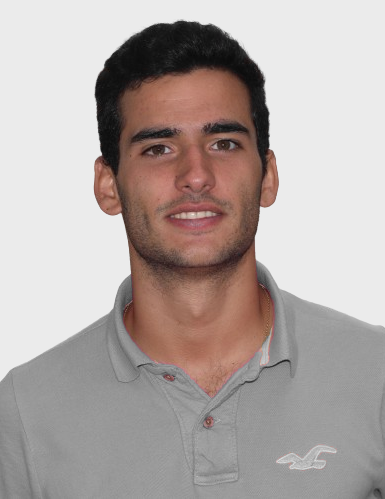
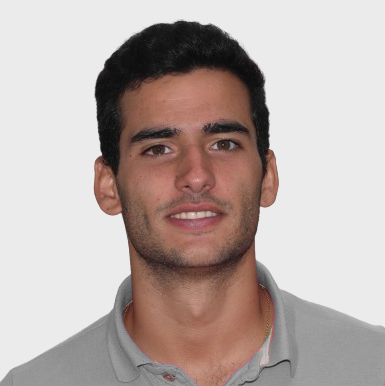
Profile picture and abstracts

diff --git a/index.html b/index.html
@@ -3,6 +3,7 @@
 <head>
     <meta charset="UTF-8">
     <meta name="viewport" content="width=device-width, initial-scale=1.0">
+    <script src="https://cdn.jsdelivr.net/npm/mathjax@3/es5/tex-mml-chtml.js"></script>
     <link rel="stylesheet"
     href="https://cdnjs.cloudflare.com/ajax/libs/font-awesome/6.5.1/css/all.min.css"
     integrity="sha512-DTOQO9RWCH3ppGqcWaEA1BIZOC6xxalwEsw9c2QQeAIftl+Vegovlnee1c9QX4TctnWMn13TZye+giMm8e2LwA=="
@@ -21,9 +22,9 @@
     
     <header>
         <nav class="navbar">
-            <!-- <div class="logo"><img src="imgs/ICM.png""></div> -->
-            <div class="name"><a onclick="showSection(1)">Lucas Rincon de la Rosa</a></div>
-
+            <div class="name"><a onclick="showSection(1)"><img src="imgs/foto-crop.png" alt="Lucas Rincon de la Rosa">Lucas Rincon de la Rosa</a></div>
+            <!-- <div class="img-home"><img src="imgs/foto-crop.png" alt="Lucas Rincon de la Rosa"></div>
+            <div class="name"><a onclick="showSection(1)">Lucas Rincon de la Rosa</a></div> -->
             <ul class="links">
                 <li><a onclick="showSection(2)">About me</a></li>
                 <li><a onclick="showSection(3)">Education</a></li>
@@ -72,7 +73,7 @@
     <div id="Page1">
 
         <div class="img-container">
-            <img src="imgs/foto-crop.png">
+            <!-- <img src="imgs/foto-crop.png"> -->
         </div>
 
         <hr>
@@ -103,7 +104,12 @@
                     <a class="pdf" target="_blank" href="pdfs/Lucas Rincon de la Rosa - Oligodendroglioma Poster.pdf">[Pdf]</a>
                 </font>
                 <br>
-                Abstract:
+                Abstract: Diffusely infiltrating gliomas in adults are currently classified into WHO grades 
+                I–IV, reflecting varying malignancy levels. Recent advances have led to a refined classification 
+                of diffusely infiltrating gliomas in adults into three groups: IDH-mutant, 1p/19q codeleted tumors 
+                (best prognosis), IDH-mutant, 1p/19q non-codeleted tumors (intermediate prognosis), and IDH 
+                wild-type tumors (poor prognosis). This study aims to use a deep learning (DL) image classification 
+                model on histopathology images from various cohorts to predict glioma grade, IDH status, and 1p/19q codeletion.
 
                 <br><br>
 
@@ -112,7 +118,15 @@
                     <a class="pdf" target="_blank" href="pdfs/Lucas Rincon de la Rosa - CSBC7th Poster.pdf">[Pdf]</a>
                 </font>
                 <br>
-                Abstract:
+                Abstract: In this study we introduce a novel deep learning model for denoising spatial transcriptomics 
+                RNA sequencing data, leveraging the power of optimal transport and graph attention mechanisms. 
+                We called our model Graph Attention with Optimal Transport, Transformers and Time diffusion (GO3T) 
+                which combines the mathematical accuracy of optimal transport to compute distance similarities with 
+                the dynamic learning capabilities of graph attention networks. This integration effectively mitigates 
+                noise and preserves spatial gene expression patterns. To validate our model's performance, 
+                we conducted a comprehensive benchmark against state-of-the-art methods such as GraphST, SpaGCN, and 
+                STAGATE as well as ScanPy. Our results demonstrate superior clustering metrics, highlighting the model's 
+                ability to maintain biological relevance.
 
             </div>
 
@@ -124,7 +138,16 @@
                     <a class="pdf" target="_blank" href="pdfs/Lucas Rincon de la Rosa - Internship report.pdf">[Pdf]</a>
                 </font>
                 <br>
-                Abstract:
+                Abstract: This document collects the work during the second year master internship at the
+                Brain Institute of Paris (ICM) associated to the M2 master studied at Sorbonne
+                University. The main objective has been the study and analysis of 2D and 3D brain
+                cell images. More precisely, the segmentation and tracking of this cells as it can
+                give essential information about the migration and behaviour of tumors. Several
+                models for two-classes semantic segmentation have been compared in 2D datasets
+                and instance segmentation has been performed using Mask-RCNN. Future work
+                aims at expand it to 3D datasets working with different object representation like
+                point clouds or meshes instead of stack images and perform tracking on both 2D
+                and 3D datasets.
 
             </div>
 
@@ -136,7 +159,33 @@
                     <a class="pdf" target="_blank" href="pdfs/Lucas Rincon de la Rosa - Mathematics report.pdf">[Pdf]</a>
                 </font>
                 <br>
-                Abstract:
+                Abstract: The main objective of this work is the study of the fractional time diffusion equation. The Caputo
+                fractional derivative will be used for this purpose. In the first part of the study a time scheme
+                discretization will be applied to the fractional derivative, known as L1 scheme, and properties such
+                as stability, consistency and convergence will be studied for classical solutions. The main result
+                is the
+                <math xmlns="http://www.w3.org/1998/Math/MathML">
+                    <mrow>
+                      <mi>O</mi>
+                      <mo>(</mo>
+                      <msup>
+                        <mi>τ</mi>
+                        <mrow>
+                          <mn>2</mn>
+                          <mo>−</mo>
+                          <mi>α</mi>
+                        </mrow>
+                      </msup>
+                      <mo>)</mo>
+                    </mrow>
+                  </math>
+                error for solutions with adequate regularity, where α is the order of the fractional
+                derivative. Later, in the next two sections the space discretization will be added, so we end up with
+                two different schemes: implicit and explicit. The last one will be dismissed as the CFL consistency
+                condition is too restrictive Closing the theoretical study, the next section is dedicated to weak
+                solutions of the problem. Finally, last section is centered in the numerical study of the implicit
+                scheme, using example solutions with and without sufficient regularity as to test if the errors are
+                the ones derived from theory.
 
             </div>
 

diff --git a/main.css b/main.css
@@ -70,9 +70,22 @@ header {
     justify-content: space-between;
 }
 
-.navbar .name {
+.name {
+    flex: 1;
     font-size: 1.5rem;
     font-weight: bold;
+}
+
+.name a {
+    display: flex;
+    align-items: center;
+}
+
+.navbar img {
+    height: 55px;
+    aspect-ratio: 1 / 1;
+    border-radius: 50%;
+    margin-right: 10px;
 }
 
 .navbar .links {
@@ -121,15 +134,22 @@ header {
     display: none;
 }
 
+/* .img-home img {
+    height: 55px;
+    aspect-ratio: 1 / 1;
+    border-radius: 50%;
+} */
+
 .img-container {
     background-color: #fa4616;
+    background-image: url(imgs/icm.jpg);
     display: flex;
     justify-content: center; /* horizontally center the content */
     align-items: center; /* vertically center the content */
     width: 100%;
     height: 400px; /* or any desired height */
     overflow: hidden;
-  }
+}
 
 .img-container img {
     height: 60%; /* or any desired height */
